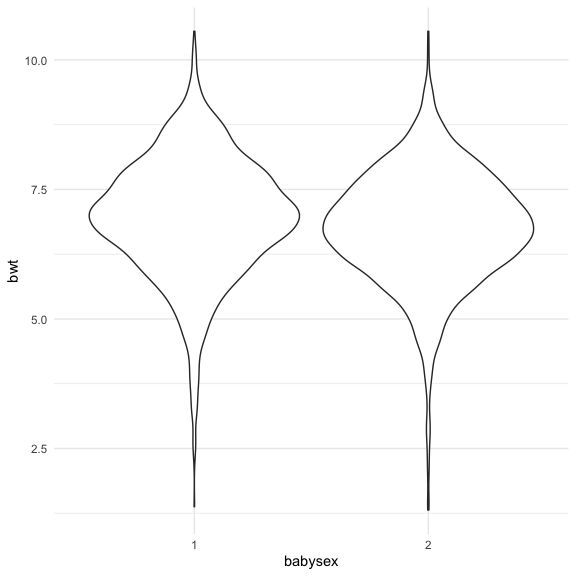
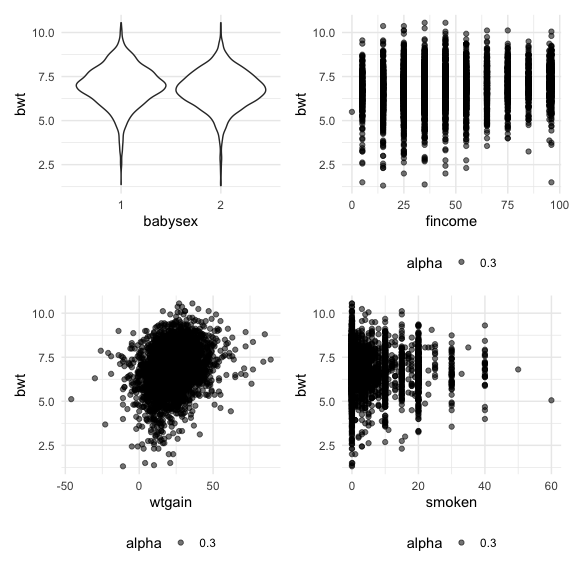
P2. residuals + visualizations

diff --git a/p8105_hw6_np2619.md b/p8105_hw6_np2619.md
@@ -118,10 +118,6 @@ bal_fit = homicide %>%
     ## 4 victim_sexUnknown 0.926    1.72     0.498
     ## 5 victim_raceWhite  1.83     1.94     1.73
 
-``` r
-  ## NEEDS TO BE ADJUSTED OR for RACE
-```
-
 #### Map glm across cities
 
 ``` r
@@ -182,7 +178,11 @@ birthweight is now in lbs.
 ``` r
 birthweight = read_csv("./data/birthweight.csv") %>% 
   mutate(babysex = as.factor(babysex),
-         bwt = bwt / 454)
+         bwt = bwt / 454,
+         frace = as.factor(frace),
+         malform = as.factor(malform),
+         mrace = as.factor(mrace)
+  )
 ```
 
     ## Parsed with column specification:
@@ -195,36 +195,26 @@ birthweight = read_csv("./data/birthweight.csv") %>%
 #### Explore for my model
 
 ``` r
-birthweight %>% 
+sex = birthweight %>% 
   ggplot(aes(x = babysex, y = bwt)) + 
   geom_violin()
+
+income = birthweight %>% 
+  ggplot(aes(x = fincome, y = bwt)) + 
+  geom_point(aes(alpha = 0.3))
+
+weight = birthweight %>% 
+  ggplot(aes(x = wtgain, y = bwt)) + 
+  geom_point(aes(alpha = 0.3))
+
+smoke = birthweight %>% 
+  ggplot(aes(x = smoken, y = bwt)) + 
+  geom_point(aes(alpha = 0.3))
+
+sex + income + weight + smoke
 ```
 
 <img src="p8105_hw6_np2619_files/figure-gfm/unnamed-chunk-7-1.png" width="90%" />
-
-``` r
-birthweight %>% 
-  ggplot(aes(x = fincome, y = bwt)) + 
-  geom_point(aes(alpha = 0.3))
-```
-
-<img src="p8105_hw6_np2619_files/figure-gfm/unnamed-chunk-7-2.png" width="90%" />
-
-``` r
-birthweight %>% 
-  ggplot(aes(x = wtgain, y = bwt)) + 
-  geom_point(aes(alpha = 0.3))
-```
-
-<img src="p8105_hw6_np2619_files/figure-gfm/unnamed-chunk-7-3.png" width="90%" />
-
-``` r
-birthweight %>% 
-  ggplot(aes(x = smoken, y = bwt)) + 
-  geom_point(aes(alpha = 0.3))
-```
-
-<img src="p8105_hw6_np2619_files/figure-gfm/unnamed-chunk-7-4.png" width="90%" />
 I chose these variables from a combination of literature, exploratory
 visualizations and pure interest. From visualizations, it looks like
 there is a slight difference in birthweight between male and female
@@ -234,13 +224,13 @@ smoking and socioeconomic influence on health and contribution to
 birthweight. I will develop a regression model to evaluate whether there
 is a influence of sex, income smoking and weight gain on birthweight.
 
-#### Fit my model
+#### My proposed model
 
 ``` r
 my_mod = lm(bwt ~ babysex + fincome + wtgain + smoken, data = birthweight) 
 
 my_mod %>% 
-  broom::tidy() %>% 
+  broom::tidy() %>%
   knitr::kable()
 ```
 
@@ -252,6 +242,15 @@ my_mod %>%
 | wtgain      |   0.0257765 | 0.0014852 |  17.355345 |   0e+00 |
 | smoken      | \-0.0148283 | 0.0022004 | \-6.738808 |   0e+00 |
 
+``` r
+broom::glance(my_mod) %>% 
+  knitr::kable()
+```
+
+| r.squared | adj.r.squared |    sigma | statistic | p.value | df |     logLik |      AIC |      BIC | deviance | df.residual | nobs |
+| --------: | ------------: | -------: | --------: | ------: | -: | ---------: | -------: | -------: | -------: | ----------: | ---: |
+| 0.1013463 |     0.1005175 | 1.069895 |   122.277 |       0 |  4 | \-6451.877 | 12915.75 | 12954.01 | 4964.457 |        4337 | 4342 |
+
 From this linear regression, we see baby sex, financial income, weight
 gain and smoking have p-values lower than 0.05, and are considered
 significant.
@@ -259,23 +258,26 @@ significant.
 #### Look at residuals
 
 ``` r
-birthweight %>% 
-  modelr::add_residuals(my_mod) %>% 
-  ggplot(aes(x = babysex, y = resid)) + 
-  geom_violin() 
-```
-
-<img src="p8105_hw6_np2619_files/figure-gfm/unnamed-chunk-9-1.png" width="90%" />
-
-``` r
-birthweight %>% 
+scatter = birthweight %>% 
   modelr::add_residuals(my_mod) %>% 
   modelr::add_predictions(my_mod) %>% 
   ggplot(aes(x = pred, y = resid)) + 
   geom_point(alpha = 0.3) 
+
+violin = birthweight %>% 
+  modelr::add_residuals(my_mod) %>% 
+  modelr::add_predictions(my_mod) %>% 
+  ggplot(aes(x = pred, y = resid)) + 
+  geom_violin() 
+
+scatter + violin
 ```
 
-<img src="p8105_hw6_np2619_files/figure-gfm/unnamed-chunk-9-2.png" width="90%" />
+<img src="p8105_hw6_np2619_files/figure-gfm/unnamed-chunk-9-1.png" width="90%" />
+The residuals on the scatter look good. They are random, there aren’t
+any clear patterns or clusters. From the violin plot, we do see that
+this holds pretty true, with some residuals on the lower and upper
+extremes. But, nobody (baby) is perfect.
 
 #### Explore c
 
@@ -398,4 +400,14 @@ knitr::kable(weather_boot_quantiles)
 
 | ci\_lower\_r | ci\_upper\_r | ci\_lower\_log | ci\_upper\_log |
 | -----------: | -----------: | -------------: | -------------: |
-|    0.8940331 |    0.8987542 |       1.966835 |       1.979176 |
+|    0.8934585 |    0.8992998 |       1.964533 |       1.977679 |
+
+We can see these bootstrap values for rsquared center around 0.91, with
+a seemingly normal curve, possibly skewed to the left, with a greater
+density of values centered at 0.91. The confidence interval for
+bootstrap rsquared values are 0.8934585 to 0.8992998.
+
+For the log of intercept \* slope, we also see a normal distribution of
+bootstrap values, centered around 2.025. Again we see a greater density
+around the center values. The confidence interval for bootstrap
+log(slope \* intercept) values are 1.9645335 to 1.9776787.
